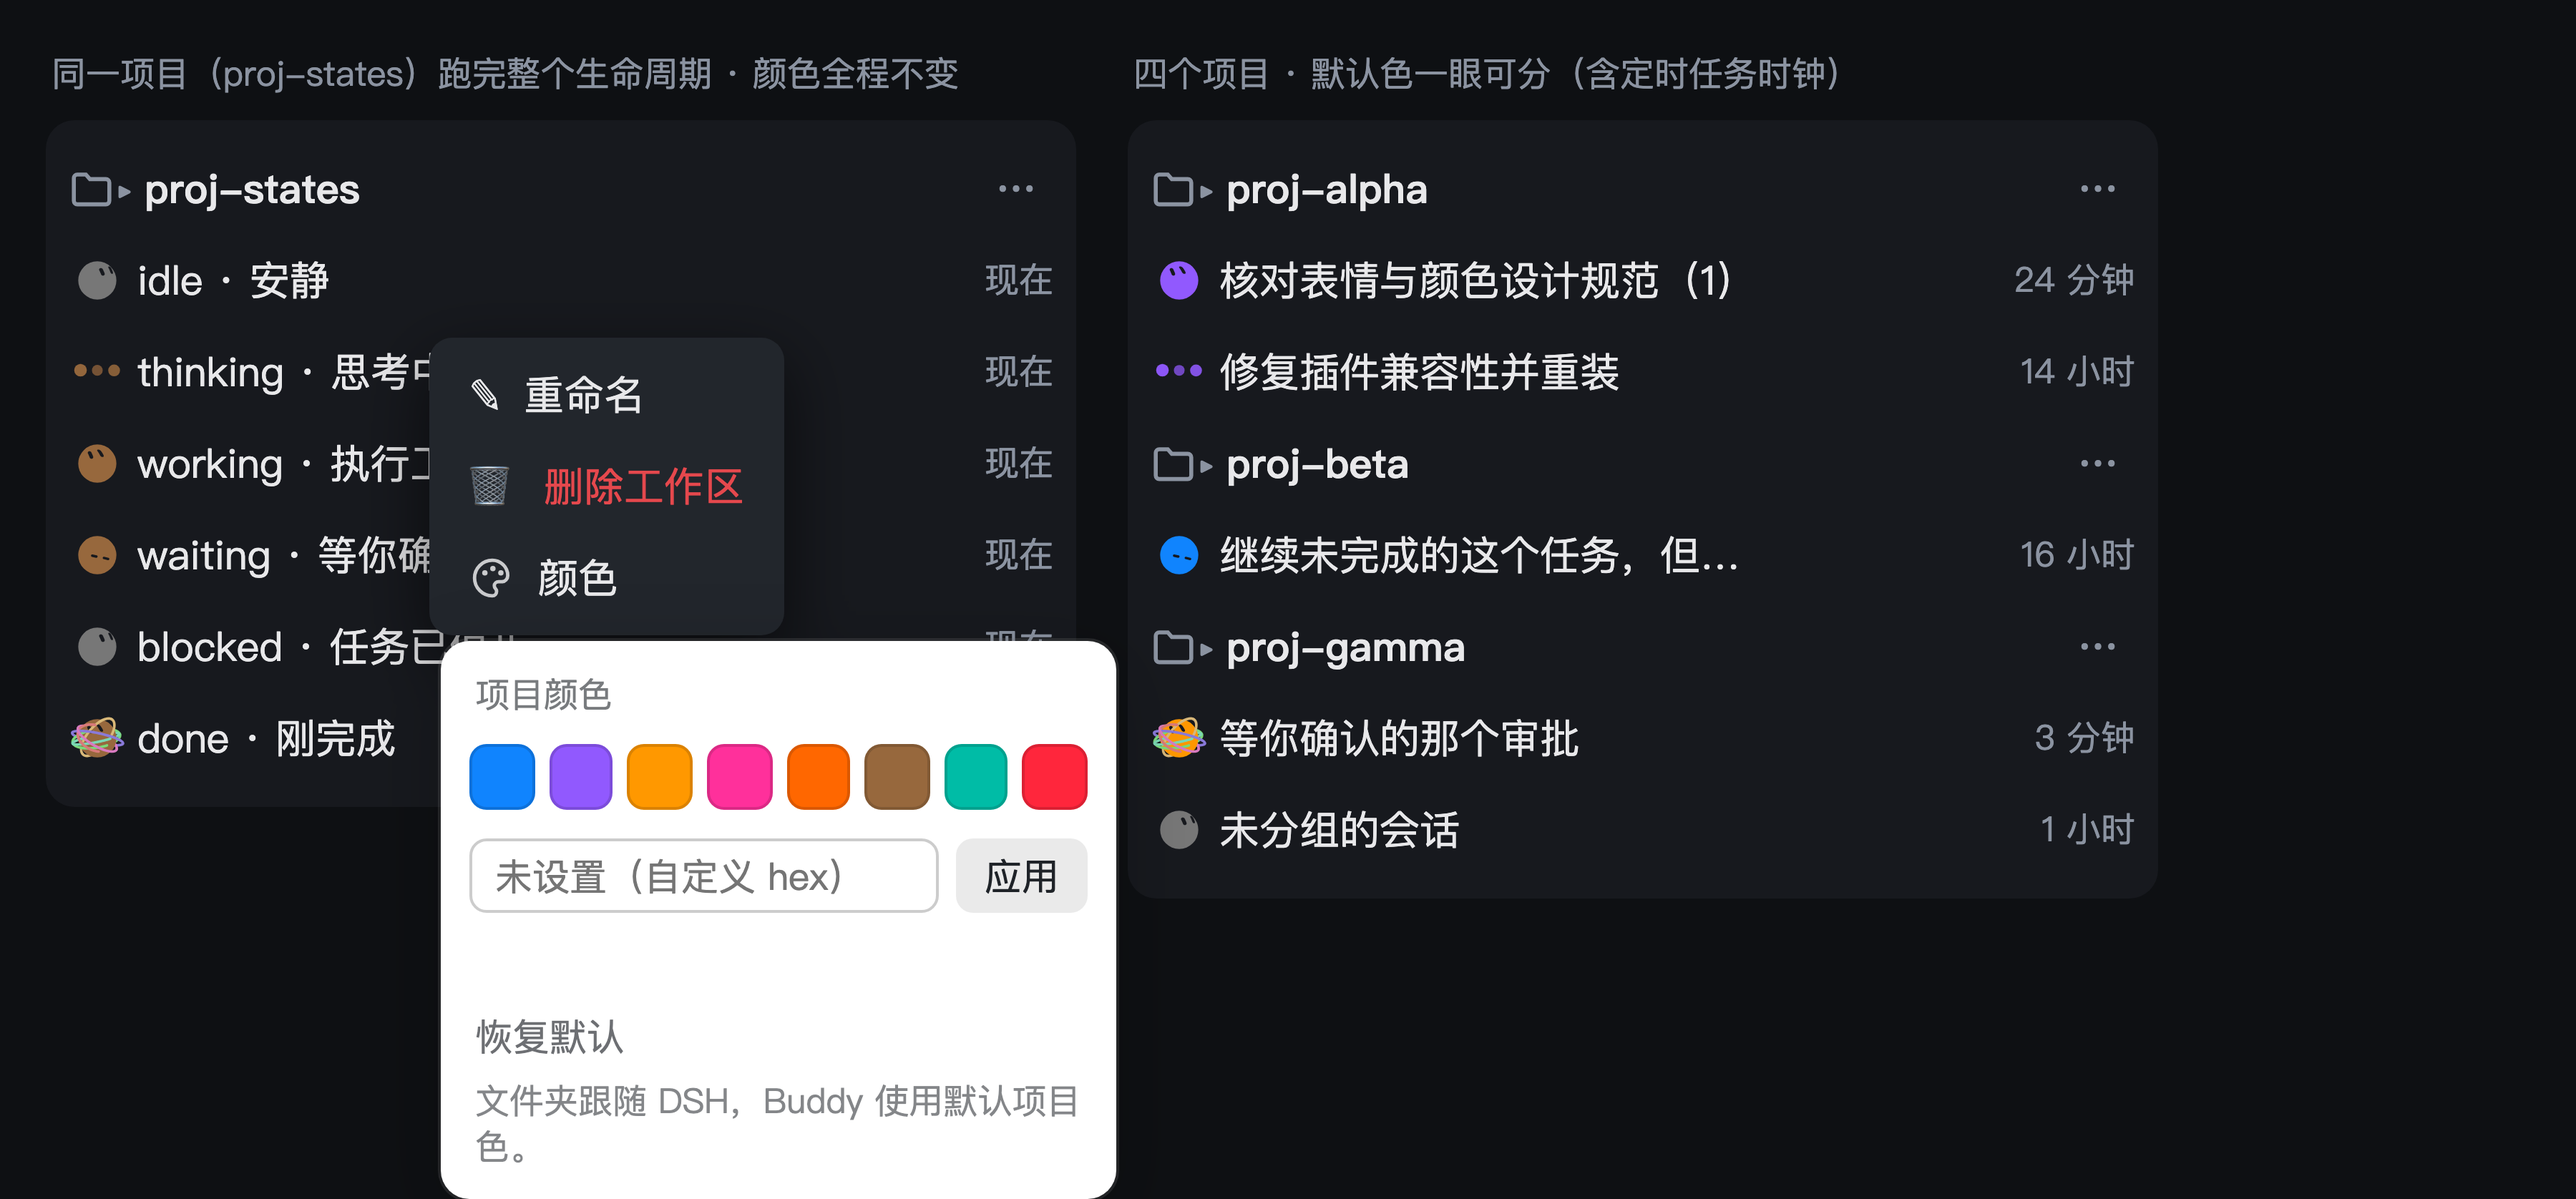
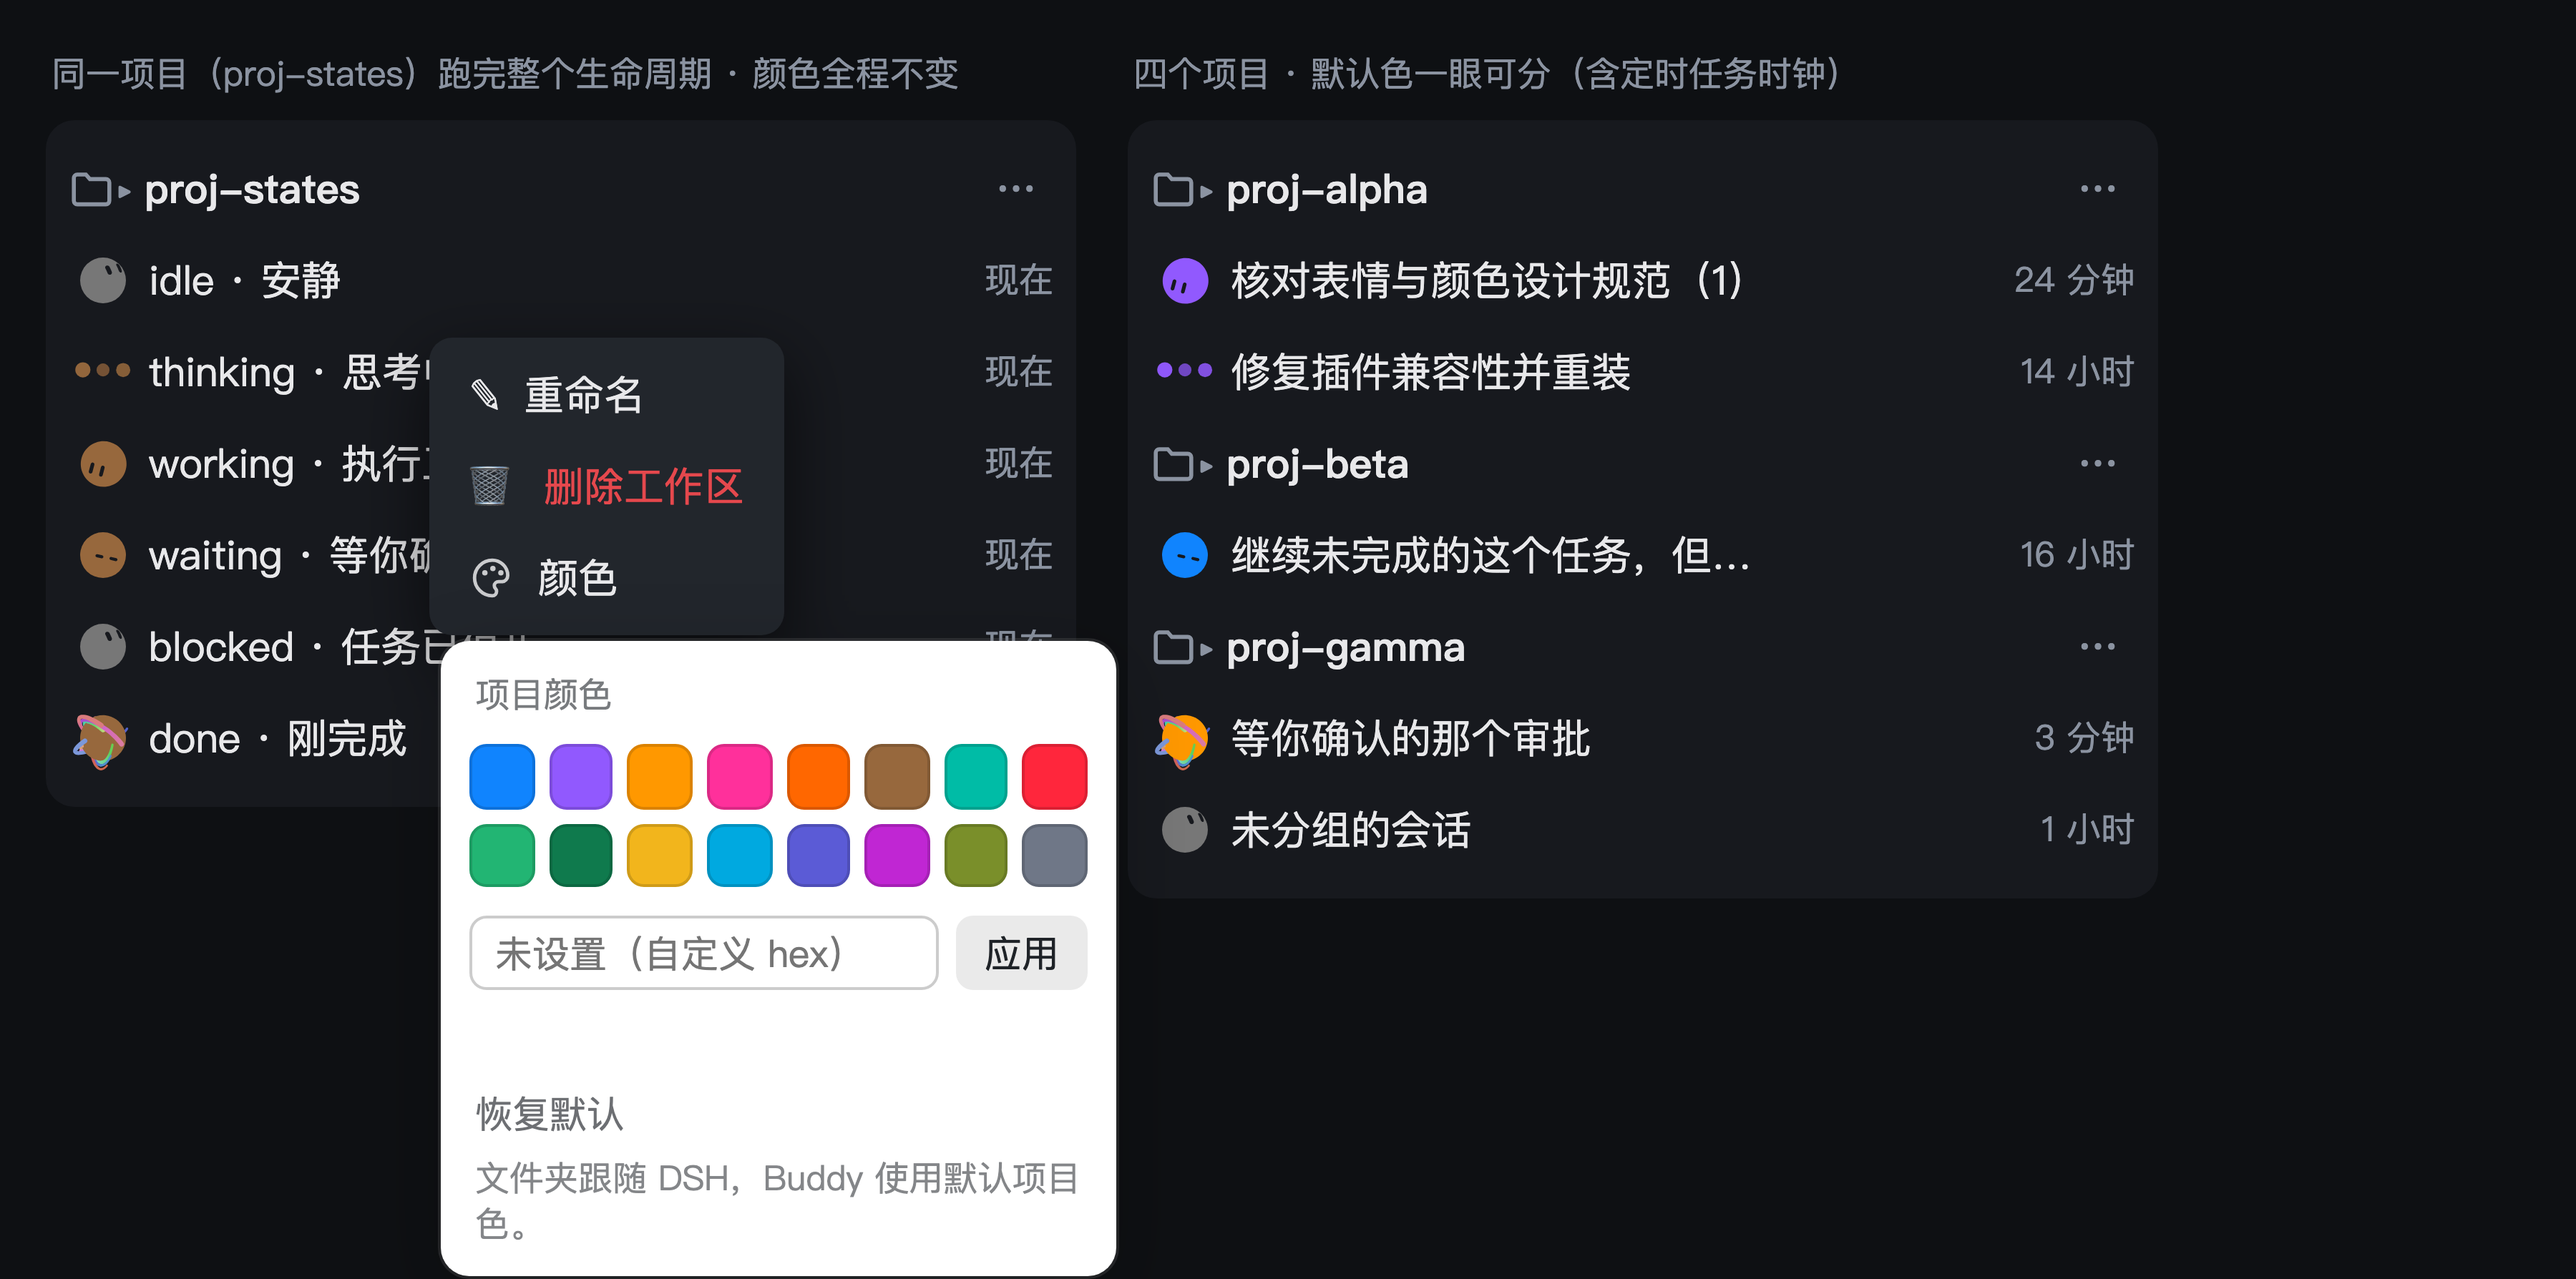
feat(palette): 调色板扩到 16 色 —— 官方 8 色 + 8 个扩充色
扩充色只进 ⋯ 菜单调色板，不参与 defaultInk 哈希发牌（否则所有项目默认色都会重排）。
命名与官方色同构：英文小写 id、单/双字中文名、小写 #rrggbb；调色板按「官方在前、扩充在后」排列。

diff --git a/lib/widget.js b/lib/widget.js
@@ -2394,8 +2394,14 @@ function setBotInk(inst, bodyFill, eyeFill) {
  * @module dsh-grok-buddy/colors-shared
  */
 
-/** 预设色名白名单（官方 8 个身份色的名字）。 */
+/**
+ * 预设色名白名单。
+ *
+ * 前 8 个是官方身份色（x.ai 站点包里的 Bot ink 值，一字不改）；后 8 个是
+ * 扩充的调色板色，命名与色值格式完全一致，但不参与默认色的哈希发牌。
+ */
 const COLOR_NAMES = Object.freeze({
+  // 官方 8 个身份色
   blue: '#1084fe',
   purple: '#9159fe',
   orange: '#ff9800',
@@ -2404,6 +2410,15 @@ const COLOR_NAMES = Object.freeze({
   clay: '#97683d',
   teal: '#00bca6',
   red: '#ff263c',
+  // 扩充色：只进调色板，给 8 个官方色不够用的项目多一种选择
+  green: '#22b573',
+  forest: '#0f7a4d',
+  yellow: '#f2b51c',
+  sky: '#00a9e0',
+  indigo: '#5b5bd6',
+  magenta: '#c026d3',
+  olive: '#7a8f2a',
+  slate: '#6f7787',
 })
 
 /**
@@ -2472,6 +2487,26 @@ const IDENTITY_INKS = Object.freeze([
   { id: 'teal', name: '青', ink: COLOR_NAMES.teal },
   { id: 'red', name: '红', ink: COLOR_NAMES.red },
 ])
+
+/**
+ * 扩充的 8 个调色板色：命名与官方身份色同构（英文小写 id + 单/双字中文名 + 小写 hex），
+ * 只用于 ⋯ 菜单里的调色板。**不参与 defaultInk 的哈希发牌** —— 官方色一旦改变数量
+ * 或顺序，所有项目的默认色都会被重新分配。
+ * @type {ReadonlyArray<{id: string, name: string, ink: string}>}
+ */
+const EXTRA_INKS = Object.freeze([
+  { id: 'green', name: '绿', ink: COLOR_NAMES.green },
+  { id: 'forest', name: '墨绿', ink: COLOR_NAMES.forest },
+  { id: 'yellow', name: '黄', ink: COLOR_NAMES.yellow },
+  { id: 'sky', name: '天蓝', ink: COLOR_NAMES.sky },
+  { id: 'indigo', name: '靛', ink: COLOR_NAMES.indigo },
+  { id: 'magenta', name: '品红', ink: COLOR_NAMES.magenta },
+  { id: 'olive', name: '橄榄', ink: COLOR_NAMES.olive },
+  { id: 'slate', name: '灰', ink: COLOR_NAMES.slate },
+])
+
+/** 调色板里展示的全部色块：官方 8 色在前（顺序不变），扩充色在后。 */
+const PICKER_INKS = Object.freeze([...IDENTITY_INKS, ...EXTRA_INKS])
 
 /** 未分组会话的哈希域。它不是一个真实 Workspace，单独给一个域避免总撞同一个色。 */
 const UNGROUPED_KEY = 'ungrouped:'
@@ -4578,7 +4613,7 @@ function boot() {
 
     const grid = document.createElement('div')
     grid.className = 'dsgb-palette-grid'
-    for (const item of IDENTITY_INKS) {
+    for (const item of PICKER_INKS) {
       const swatch = document.createElement('button')
       swatch.type = 'button'
       swatch.className = 'dsgb-swatch'
@@ -5175,7 +5210,7 @@ function boot() {
     ink(workspaceId) {
       return inkOfProject(workspaceId === undefined ? '' : workspaceId, dark, colors)
     },
-    palette: { inks: IDENTITY_INKS, surface: SURFACE, ungrouped: UNGROUPED_KEY },
+    palette: { inks: PICKER_INKS, surface: SURFACE, ungrouped: UNGROUPED_KEY },
     colors() {
       return { ...colors }
     },

diff --git a/src/widget/index.js b/src/widget/index.js
@@ -21,7 +21,7 @@
 import { TB_EXPRESSIONS, TB_SHAPES } from './grokbot/data.js'
 import { createBot, runBot, setBotInk } from './grokbot/engine.js'
 import { LIFECYCLE, PHASE_TEXT, PHASE_TO_MOTION, SURFACE, surfaceOf, themeOf } from './mapping.js'
-import { IDENTITY_INKS, UNGROUPED_KEY, defaultInk, inkOfProject, normalizeColor, storeKey } from './palette.js'
+import { PICKER_INKS, UNGROUPED_KEY, defaultInk, inkOfProject, normalizeColor, storeKey } from './palette.js'
 import { collectSurfaces, collectWorkspaceFolders } from './dom.js'
 import { dshRawStateOf, fallbackPhase, mergePhase } from './dsh-state.js'
 import { COOLDOWN_MS, isActive, inkForRow } from './activity.js'
@@ -1004,7 +1004,7 @@ function boot() {
 
     const grid = document.createElement('div')
     grid.className = 'dsgb-palette-grid'
-    for (const item of IDENTITY_INKS) {
+    for (const item of PICKER_INKS) {
       const swatch = document.createElement('button')
       swatch.type = 'button'
       swatch.className = 'dsgb-swatch'
@@ -1601,7 +1601,7 @@ function boot() {
     ink(workspaceId) {
       return inkOfProject(workspaceId === undefined ? '' : workspaceId, dark, colors)
     },
-    palette: { inks: IDENTITY_INKS, surface: SURFACE, ungrouped: UNGROUPED_KEY },
+    palette: { inks: PICKER_INKS, surface: SURFACE, ungrouped: UNGROUPED_KEY },
     colors() {
       return { ...colors }
     },

diff --git a/src/palette.js b/src/palette.js
@@ -37,6 +37,26 @@ export const IDENTITY_INKS = Object.freeze([
   { id: 'red', name: '红', ink: COLOR_NAMES.red },
 ])
 
+/**
+ * 扩充的 8 个调色板色：命名与官方身份色同构（英文小写 id + 单/双字中文名 + 小写 hex），
+ * 只用于 ⋯ 菜单里的调色板。**不参与 defaultInk 的哈希发牌** —— 官方色一旦改变数量
+ * 或顺序，所有项目的默认色都会被重新分配。
+ * @type {ReadonlyArray<{id: string, name: string, ink: string}>}
+ */
+export const EXTRA_INKS = Object.freeze([
+  { id: 'green', name: '绿', ink: COLOR_NAMES.green },
+  { id: 'forest', name: '墨绿', ink: COLOR_NAMES.forest },
+  { id: 'yellow', name: '黄', ink: COLOR_NAMES.yellow },
+  { id: 'sky', name: '天蓝', ink: COLOR_NAMES.sky },
+  { id: 'indigo', name: '靛', ink: COLOR_NAMES.indigo },
+  { id: 'magenta', name: '品红', ink: COLOR_NAMES.magenta },
+  { id: 'olive', name: '橄榄', ink: COLOR_NAMES.olive },
+  { id: 'slate', name: '灰', ink: COLOR_NAMES.slate },
+])
+
+/** 调色板里展示的全部色块：官方 8 色在前（顺序不变），扩充色在后。 */
+export const PICKER_INKS = Object.freeze([...IDENTITY_INKS, ...EXTRA_INKS])
+
 /** 未分组会话的哈希域。它不是一个真实 Workspace，单独给一个域避免总撞同一个色。 */
 export const UNGROUPED_KEY = 'ungrouped:'
 

diff --git a/src/colors-shared.js b/src/colors-shared.js
@@ -7,8 +7,14 @@
  * @module dsh-grok-buddy/colors-shared
  */
 
-/** 预设色名白名单（官方 8 个身份色的名字）。 */
+/**
+ * 预设色名白名单。
+ *
+ * 前 8 个是官方身份色（x.ai 站点包里的 Bot ink 值，一字不改）；后 8 个是
+ * 扩充的调色板色，命名与色值格式完全一致，但不参与默认色的哈希发牌。
+ */
 export const COLOR_NAMES = Object.freeze({
+  // 官方 8 个身份色
   blue: '#1084fe',
   purple: '#9159fe',
   orange: '#ff9800',
@@ -17,6 +23,15 @@ export const COLOR_NAMES = Object.freeze({
   clay: '#97683d',
   teal: '#00bca6',
   red: '#ff263c',
+  // 扩充色：只进调色板，给 8 个官方色不够用的项目多一种选择
+  green: '#22b573',
+  forest: '#0f7a4d',
+  yellow: '#f2b51c',
+  sky: '#00a9e0',
+  indigo: '#5b5bd6',
+  magenta: '#c026d3',
+  olive: '#7a8f2a',
+  slate: '#6f7787',
 })
 
 /**
